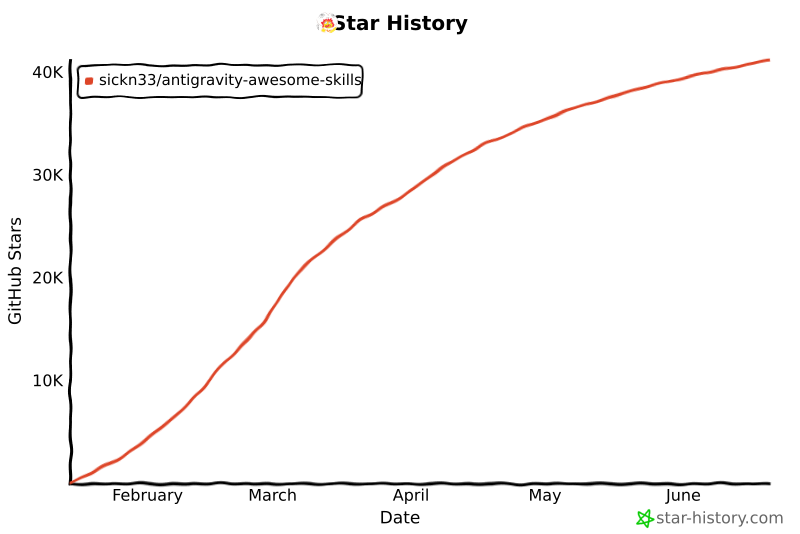
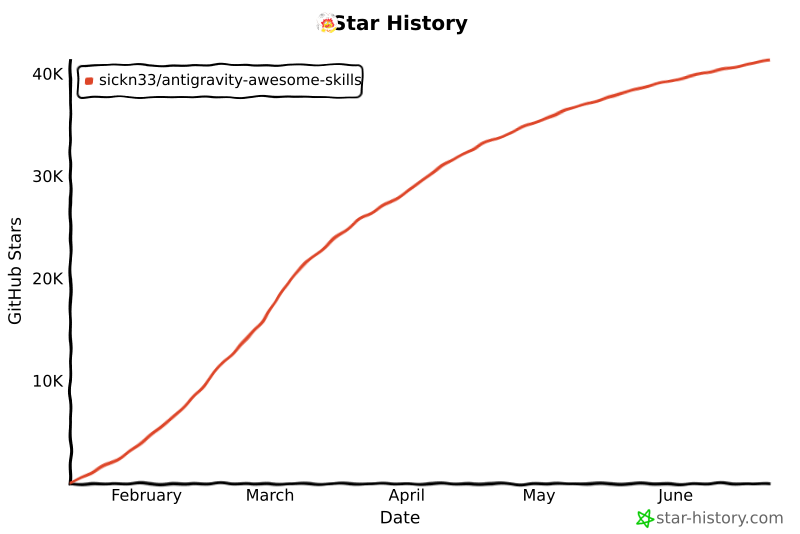
chore: update star history chart

diff --git a/README.md b/README.md
@@ -506,14 +506,14 @@ We officially thank the following contributors for their help in making this rep
 ## Star History
 
 <a href="https://www.star-history.com/#sickn33/antigravity-awesome-skills&type=date&legend=top-left">
- <img alt="Star History Chart" src="https://api.star-history.com/svg?repos=sickn33/antigravity-awesome-skills&type=date&legend=top-left&cache_bust=202606211000" />
+ <img alt="Star History Chart" src="https://api.star-history.com/svg?repos=sickn33/antigravity-awesome-skills&type=date&legend=top-left&cache_bust=202606221220" />
 </a>
 
 <a href="https://www.star-history.com/sickn33/antigravity-awesome-skills">
  <picture>
-   <source media="(prefers-color-scheme: dark)" srcset="https://api.star-history.com/chart?repos=sickn33/antigravity-awesome-skills&style=landscape1&theme=dark&cache_bust=202606211000" />
-   <source media="(prefers-color-scheme: light)" srcset="https://api.star-history.com/chart?repos=sickn33/antigravity-awesome-skills&style=landscape1&cache_bust=202606211000" />
-   <img alt="Star History Chart" src="https://api.star-history.com/chart?repos=sickn33/antigravity-awesome-skills&style=landscape1&cache_bust=202606211000" />
+   <source media="(prefers-color-scheme: dark)" srcset="https://api.star-history.com/chart?repos=sickn33/antigravity-awesome-skills&style=landscape1&theme=dark&cache_bust=202606221220" />
+   <source media="(prefers-color-scheme: light)" srcset="https://api.star-history.com/chart?repos=sickn33/antigravity-awesome-skills&style=landscape1&cache_bust=202606221220" />
+   <img alt="Star History Chart" src="https://api.star-history.com/chart?repos=sickn33/antigravity-awesome-skills&style=landscape1&cache_bust=202606221220" />
  </picture>
 </a>
 
